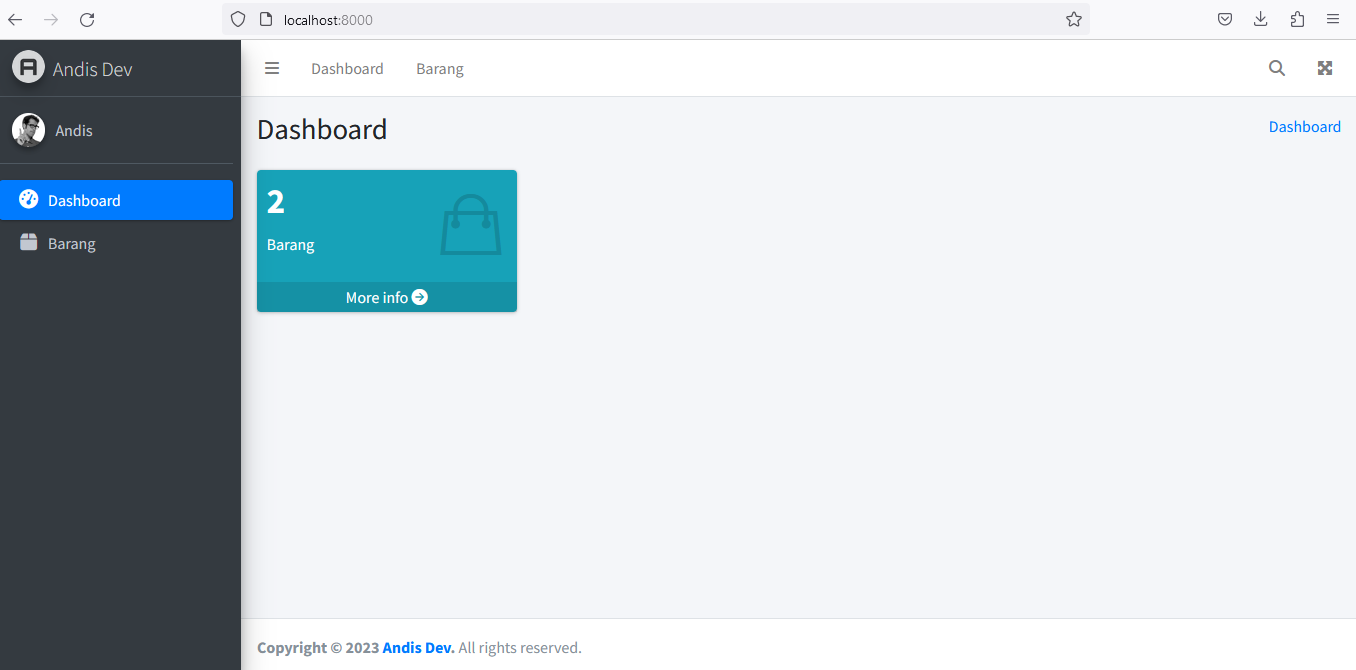
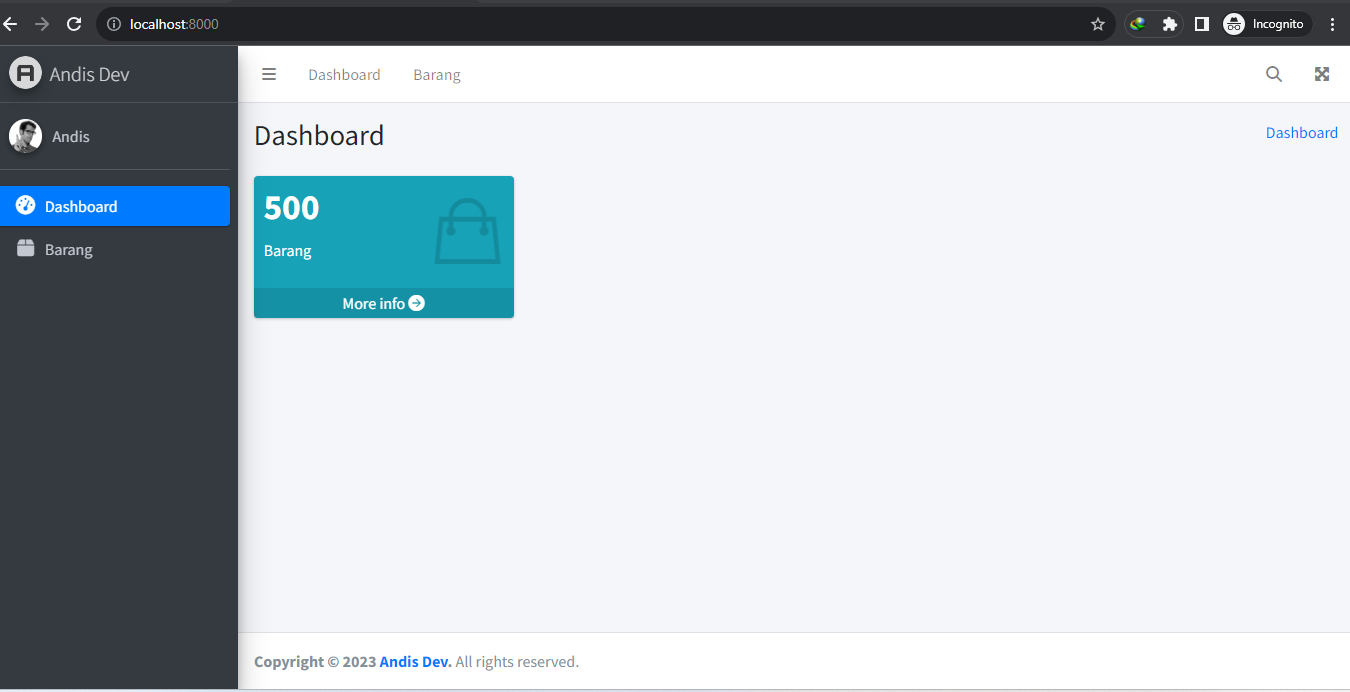
Implemet Faker

diff --git a/resources/views/barang/barang.blade.php b/resources/views/barang/barang.blade.php
@@ -36,7 +36,8 @@
                             </div>
                             <!-- /.card-header -->
                             <div class="card-body">
-                                <table id="exampleServerSide" class="table table-striped table-bordered table-hover text-center barang-table"
+                                <table id="exampleServerSide"
+                                    class="table table-striped table-bordered table-hover text-center barang-table"
                                     style="width: 100%">
                                     <thead>
                                         <tr>
@@ -46,7 +47,7 @@
                                             <th>Supplier</th>
                                             <th>Stock</th>
                                             <th>Price</th>
-                                            <th>Note</th>
+                                            {{-- <th>Note</th> --}}
                                             <th>Action</th>
                                         </tr>
                                     </thead>
@@ -102,10 +103,10 @@
                         data: 'price',
                         name: 'price'
                     },
-                    {
-                        data: 'note',
-                        name: 'note'
-                    },
+                    // {
+                    //     data: 'note',
+                    //     name: 'note'
+                    // },
                     {
                         data: 'action',
                         name: 'action',

diff --git a/database/factories/BarangFactory.php b/database/factories/BarangFactory.php
@@ -16,8 +16,15 @@ class BarangFactory extends Factory
      */
     public function definition(): array
     {
+        $category = array('Elektronik', 'Makanan', 'Minuman', 'Alat', 'Software', 'Hardware');
+
         return [
-            //
+            'name' => fake()->unique()->name(),
+            'category' => $category[rand(0, 5)],
+            'supplier' => fake()->unique()->company(),
+            'stock' => rand(1, 500),
+            'price' => rand(100000, 5000000),
+            'note' => fake()->unique()->bs()
         ];
     }
 }

diff --git a/resources/views/template/main.blade.php b/resources/views/template/main.blade.php
@@ -39,7 +39,7 @@
                     <a href="/" class="nav-link">Dashboard</a>
                 </li>
                 <li class="nav-item d-none d-sm-inline-block">
-                    <a href="/" class="nav-link">Barang</a>
+                    <a href="/barang" class="nav-link">Barang</a>
                 </li>
             </ul>
 

diff --git a/database/seeders/DatabaseSeeder.php b/database/seeders/DatabaseSeeder.php
@@ -13,6 +13,7 @@ class DatabaseSeeder extends Seeder
     public function run(): void
     {
         // \App\Models\User::factory(10)->create();
+        \App\Models\Barang::factory(500)->create();
 
         // \App\Models\User::factory()->create([
         //     'name' => 'Test User',
